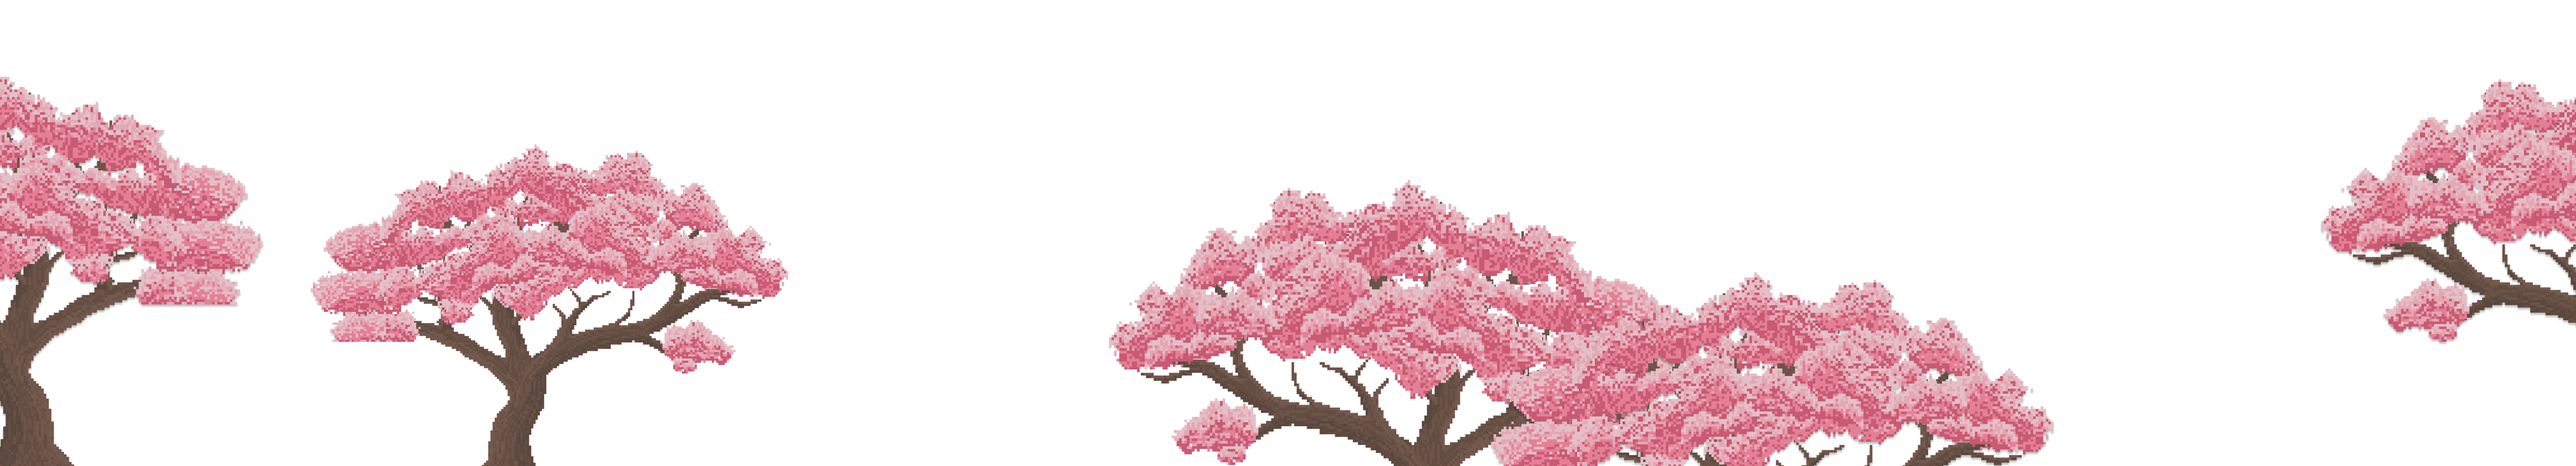
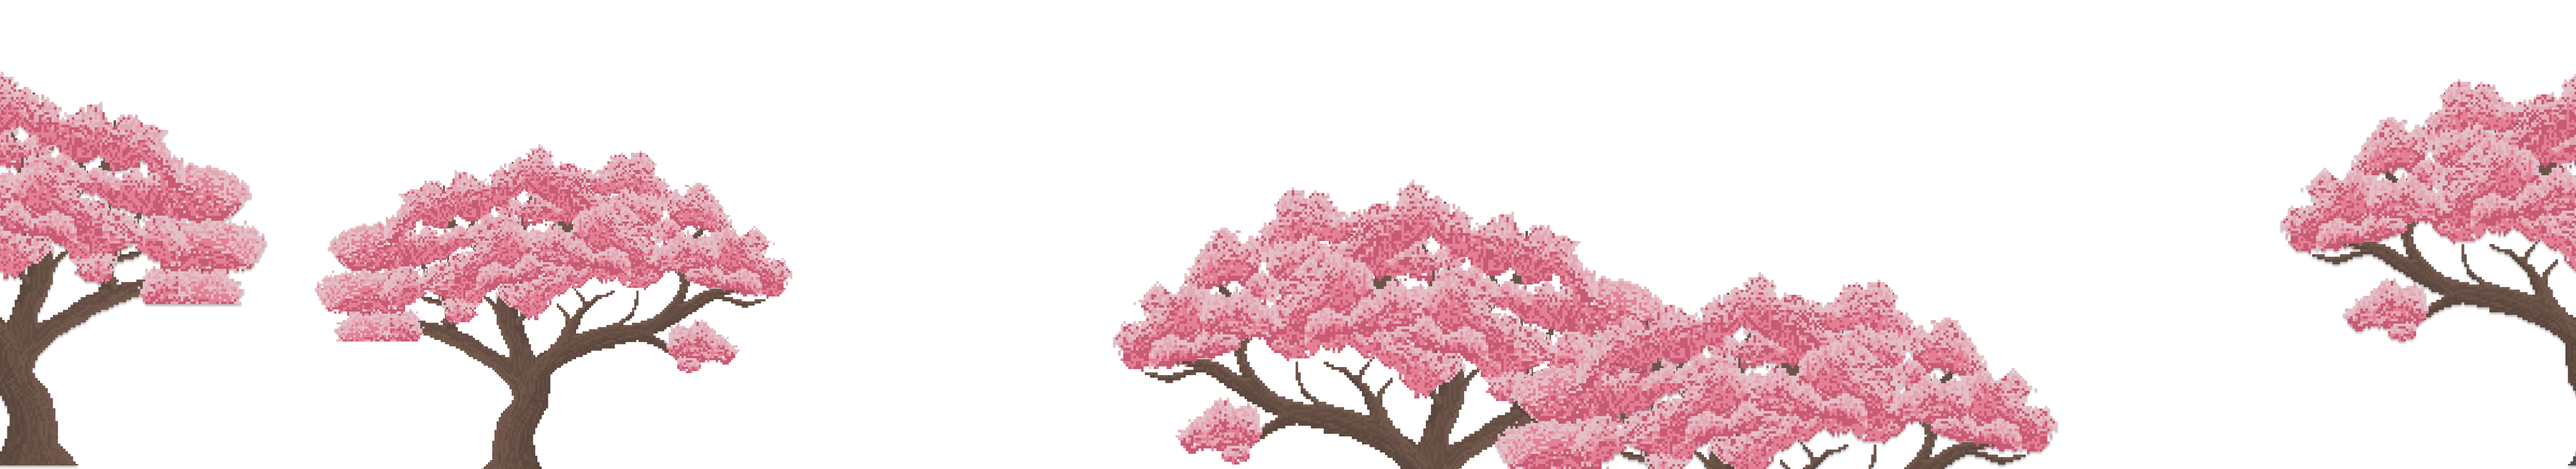
Update test player and update all map * 4

diff --git a/src/scenes/Temple.js b/src/scenes/Temple.js
@@ -13,10 +13,21 @@ import {
   PLAYER_DEPTH,
   FOREGROUND_DEPTH,
 } from '../utils/mapDepth'
+import { OBJECT_SCROLL } from '../utils/mapObjectScroll'
+import playerMove from '../utils/playerMove'
+
+const spritesheet_path = path.join(
+  'assets',
+  'image',
+  'Sunny-land-files',
+  'spritesheets'
+)
 
 let background
 let foreground
 let components
+let camera
+let player
 
 class Temple extends Phaser.Scene {
   constructor() {
@@ -46,72 +57,106 @@ class Temple extends Phaser.Scene {
     //load foreground
     this.load.image(
       'tree',
-      path.join(FOREGROUND_TEMPLE_PATH, 'sakura-tree-short.png')
+      path.join(FOREGROUND_TEMPLE_PATH, 'Sakura Tree.png')
     )
     this.load.image('water', path.join(FOREGROUND_TEMPLE_PATH, 'Water.png'))
 
     // load components
     this.load.image('House', path.join(COMPONENT_TEMPLE_PATH, 'House.png'))
     this.load.image('torii', path.join(COMPONENT_TEMPLE_PATH, 'Arc.png'))
+
+    //load player
+    this.load.spritesheet('player', path.join(spritesheet_path, 'oposum.png'), {
+      frameWidth: 36,
+      frameHeight: 28,
+    })
   }
 
   create() {
+    this.playerMove = playerMove //Binding function to scene
+
     //config
     const { width, height } = this.scale
-    const mapWidth = width * 2
+    const mapWidth = width * 4
     const floorHeight = height - 330
 
     //setting world bounds
     this.physics.world.setBounds(0, 0, mapWidth, height)
 
+    //set collision L, R, T, B
+    this.physics.world.setBoundsCollision(true, true, true, true)
+
+    //setting camera
+    camera = this.cameras.main
+    camera.setBounds(0, 0, mapWidth, height)
+    camera.setViewport(0, 0, 1280, height)
+
     //background
     background = this.add.group()
     let sky = this.add
-      .tileSprite(0, 0, width, height, 'sky')
+      .tileSprite(0, 0, mapWidth, height, 'sky')
       .setOrigin(0, 0)
       .setScale(1, 0.7)
       .setDepth(SKY_DEPTH)
+      .setScrollFactor(0)
+
     let city = this.add
-      .tileSprite(0, floorHeight - 100, 550, 200, 'City')
+      .tileSprite(0, floorHeight - 200, 550, 200, 'City')
       .setOrigin(0, 0)
-      .setScale(1)
+      .setScale(1.5)
       .setDepth(BACKGROUND_DEPTH)
+      .setScrollFactor(OBJECT_SCROLL.BG)
+
     let clouds = this.add
       .tileSprite(0, -200, mapWidth, height, 'Clouds')
       .setOrigin(0, 0)
       .setScale(1)
       .setDepth(SKY_DEPTH)
+      .setScrollFactor(OBJECT_SCROLL.CLOUD)
+
     let fuji = this.add
-      .image(mapWidth - 1000, floorHeight - 150, 'fuji')
+      .image(mapWidth - 2200, floorHeight - 250, 'fuji')
       .setOrigin(0, 0)
-      .setScale(1)
+      .setScale(1.5)
       .setDepth(BACKGROUND_DEPTH)
+      .setScrollFactor(OBJECT_SCROLL.BG)
+
     let bgTree = this.add
-      .tileSprite(0, floorHeight + 20, width * 2, 180, 'bgTree')
+      .tileSprite(0, floorHeight + 20, mapWidth * 2, 180, 'bgTree')
       .setOrigin(0, 0)
       .setScale(0.7)
       .setDepth(BACKGROUND_COMPONENT_DEPTH)
+      .setScrollFactor(OBJECT_SCROLL.BG)
+
     let brush1 = this.add
-      .image(300, floorHeight + 20, 'bushes')
+      .image(500, floorHeight - 50, 'bushes')
       .setOrigin(0, 0)
-      .setScale(1)
+      .setScale(2)
       .setDepth(BACKGROUND_COMPONENT_DEPTH)
+      .setScrollFactor(OBJECT_SCROLL.BG)
+
     let brush2 = this.add
-      .image(mapWidth / 2 - 550, floorHeight + 20, 'bushes')
+      .image(mapWidth / 2 - 800, floorHeight - 50, 'bushes')
       .setOrigin(0, 0)
-      .setScale(1)
+      .setScale(2)
       .setDepth(BACKGROUND_COMPONENT_DEPTH)
+      .setScrollFactor(OBJECT_SCROLL.BG)
     brush2.flipX = true
+
     let brush3 = this.add
-      .image(mapWidth / 2 + 180, floorHeight + 20, 'bushes')
+      .image(mapWidth / 2, floorHeight - 50, 'bushes')
+      .setOrigin(0, 0)
+      .setScale(2)
+      .setDepth(BACKGROUND_COMPONENT_DEPTH)
+      .setScrollFactor(OBJECT_SCROLL.BG)
+
+    let peddlerCar = this.add
+      .image(700, floorHeight - 40, 'peddlerCar')
       .setOrigin(0, 0)
       .setScale(1)
-      .setDepth(BACKGROUND_COMPONENT_DEPTH)
-    let peddlerCar = this.add
-      .image(300, floorHeight, 'peddlerCar')
-      .setOrigin(0, 0)
-      .setScale(0.7)
       .setDepth(MIDDLEGROUND_DEPTH)
+      .setScrollFactor(OBJECT_SCROLL.PLAYER)
+
     background.add(sky)
     background.add(city)
     background.add(clouds)
@@ -125,43 +170,75 @@ class Temple extends Phaser.Scene {
     //components background
     components = this.add.group()
     let house = this.add
-      .image(mapWidth / 2 - 380, floorHeight - 100, 'House')
+      .image(mapWidth / 2 - 620, floorHeight - 220, 'House')
       .setOrigin(0, 0)
-      .setScale(0.5)
+      .setScale(0.8)
       .setDepth(MIDDLEGROUND_DEPTH)
+      .setScrollFactor(OBJECT_SCROLL.PLAYER)
+
     let torii = this.add
-      .image(mapWidth / 2 + 500, floorHeight - 50, 'torii')
+      .image(mapWidth / 2 + 900, floorHeight - 100, 'torii')
       .setOrigin(0, 0)
-      .setScale(0.5)
+      .setScale(0.7)
       .setDepth(MIDDLEGROUND_DEPTH)
+      .setScrollFactor(OBJECT_SCROLL.PLAYER)
+
     components.add(house)
     components.add(torii)
+
+    //player
+    player = this.physics.add
+      .sprite(300, height - 300, 'player')
+      .setCollideWorldBounds(true)
+      .setScale(3)
+      .setDepth(PLAYER_DEPTH)
 
     //ground physics
     const grounds = this.physics.add.staticGroup()
     let ground = this.add
-      .tileSprite(0, floorHeight + 100, width, 60, 'ground')
+      .tileSprite(0, floorHeight + 100, mapWidth * 2, 60, 'ground')
       .setOrigin(0, 0)
       .setScale(1)
       .setDepth(PLAYER_DEPTH)
+      .setScrollFactor(OBJECT_SCROLL.PLAYER)
+
     grounds.add(ground)
+    this.physics.add.collider(player, grounds)
 
     //foreground
     foreground = this.add.group()
     let water = this.add
-      .tileSprite(0, 460, mapWidth, 250, 'water')
+      .tileSprite(0, 450, mapWidth * 2, 250, 'water')
       .setOrigin(0, 0)
       .setScale(1.1)
       .setDepth(FOREGROUND_DEPTH)
+      .setScrollFactor(OBJECT_SCROLL.PLAYER)
+
     let tree = this.add
-      .image(0, 100, 'tree')
+      .tileSprite(0, 300, mapWidth * 4, height * 2, 'tree')
       .setOrigin(0, 0)
-      .setScale(1)
+      .setScale(0.5)
       .setDepth(FOREGROUND_DEPTH)
+      .setScrollFactor(OBJECT_SCROLL.FG)
+
     foreground.add(tree)
     foreground.add(water)
+
+    //animations for testing
+    this.anims.create({
+      key: 'walk',
+      frames: this.anims.generateFrameNumbers('player', {
+        start: 0,
+        end: 5,
+      }),
+      frameRate: 10,
+      repeat: -1,
+    })
   }
 
-  update() {}
+  update() {
+    this.playerMove(player, 200)
+    camera.startFollow(player)
+  }
 }
 export default Temple

diff --git a/src/main.js b/src/main.js
@@ -56,6 +56,9 @@ const config = {
     Ending, //* 11 show text1
     Summarize, //* 12 show text2
   ],
+  scale: {
+    mode: Phaser.Scale.NONE, // Disable Phaser's scaling
+  },
 };
 
 const game = new Phaser.Game(config);

diff --git a/src/utils/mapObjectScroll.js b/src/utils/mapObjectScroll.js
@@ -1,0 +1,6 @@
+export const OBJECT_SCROLL = {
+  CLOUD: 0.5,
+  BG: 0.8,
+  FG: 1.5,
+  PLAYER: 1,
+}
